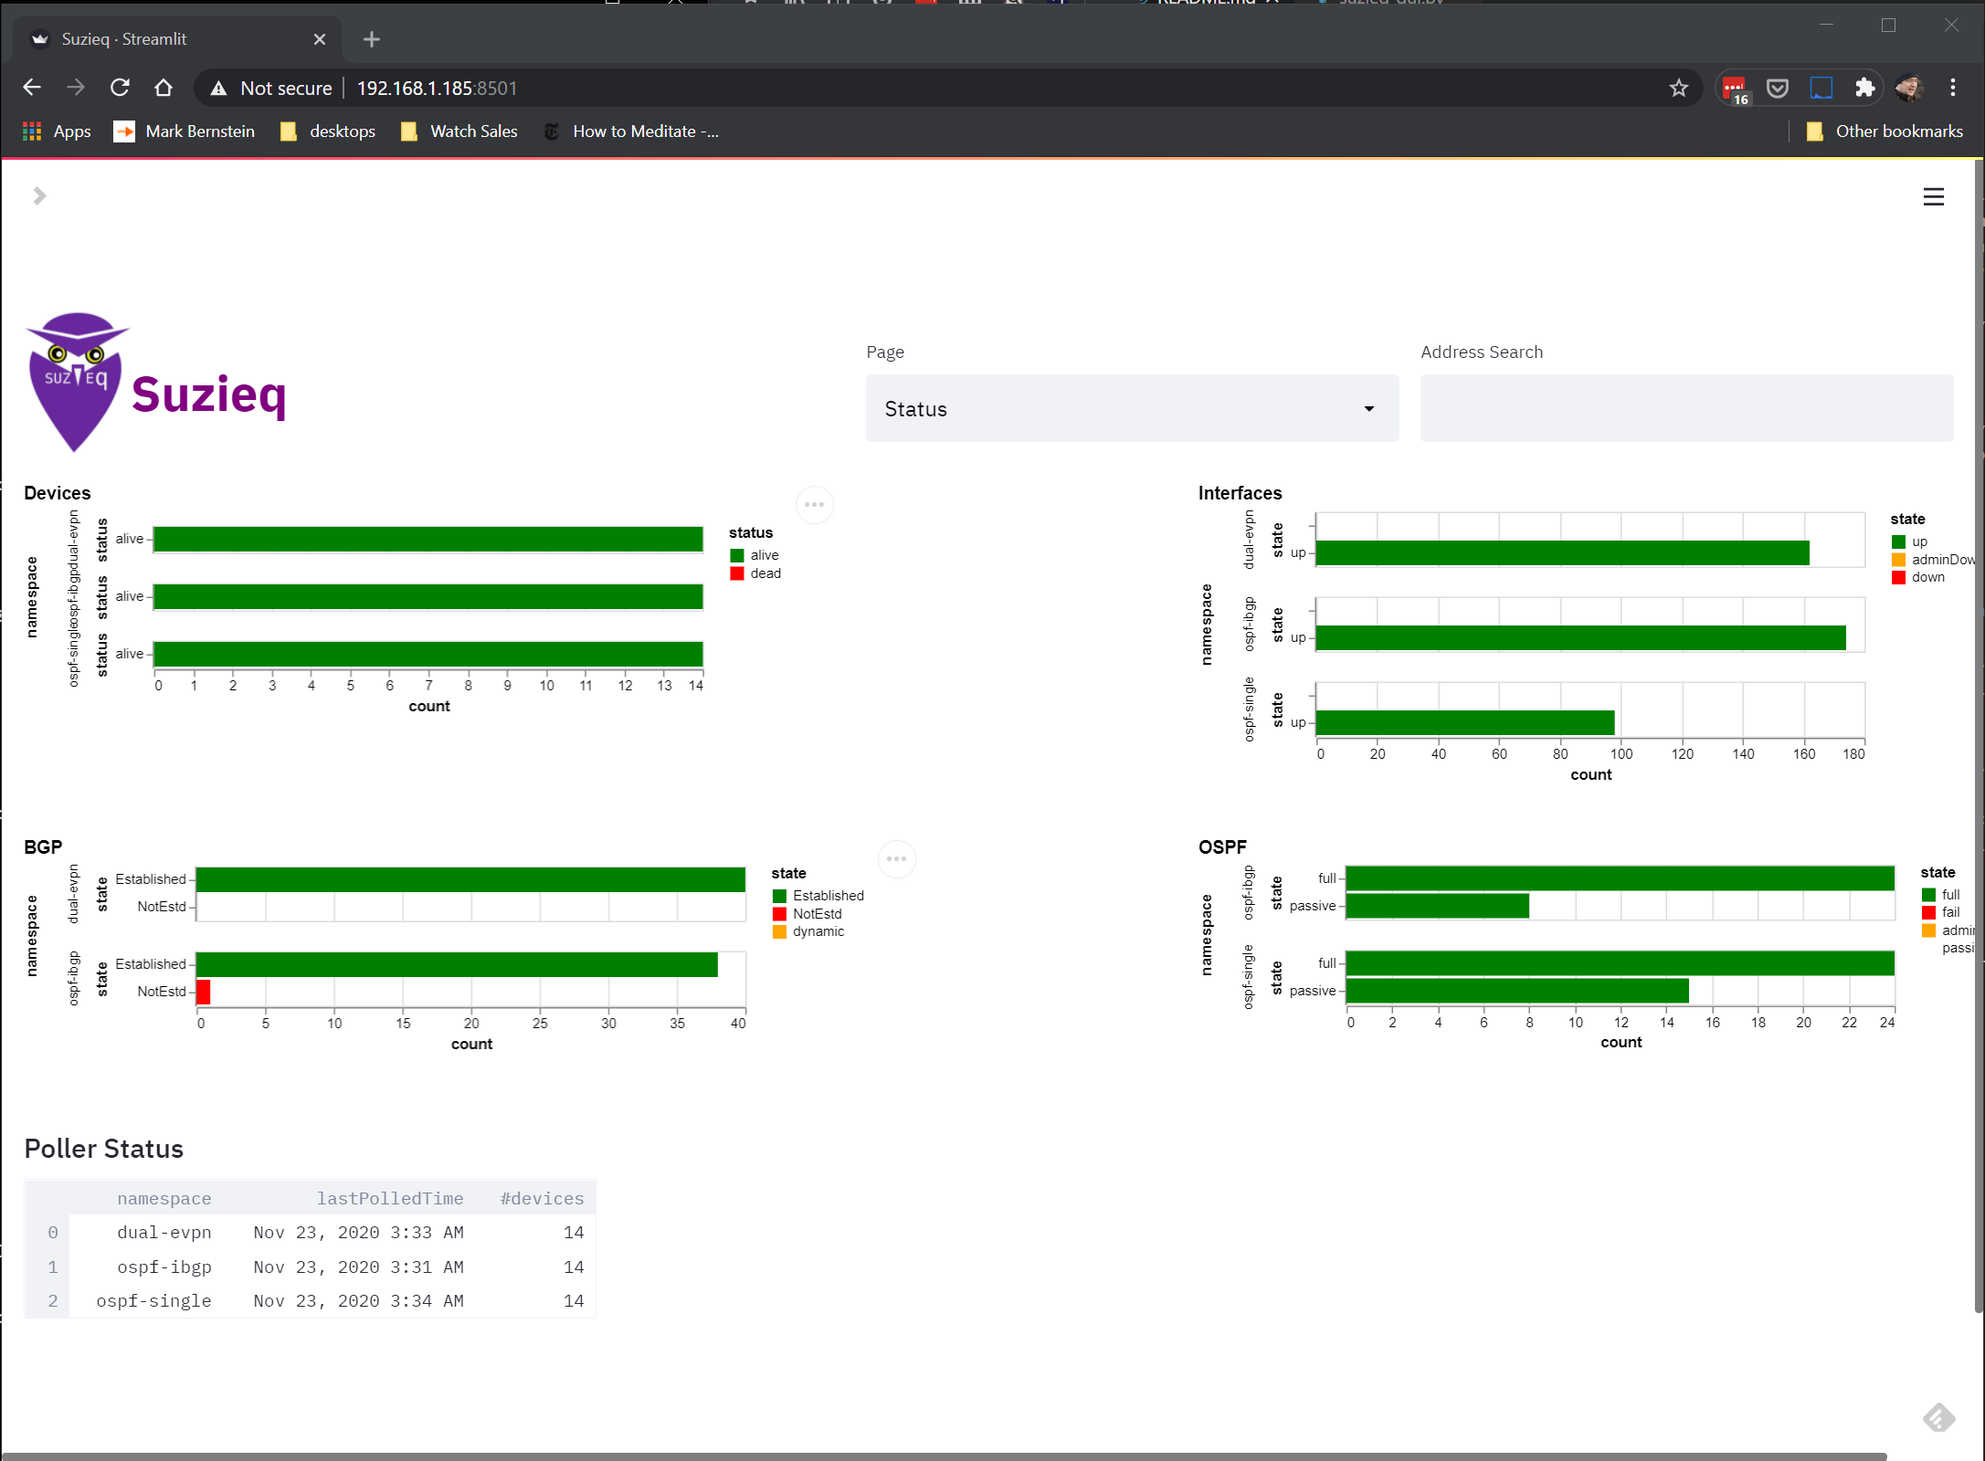
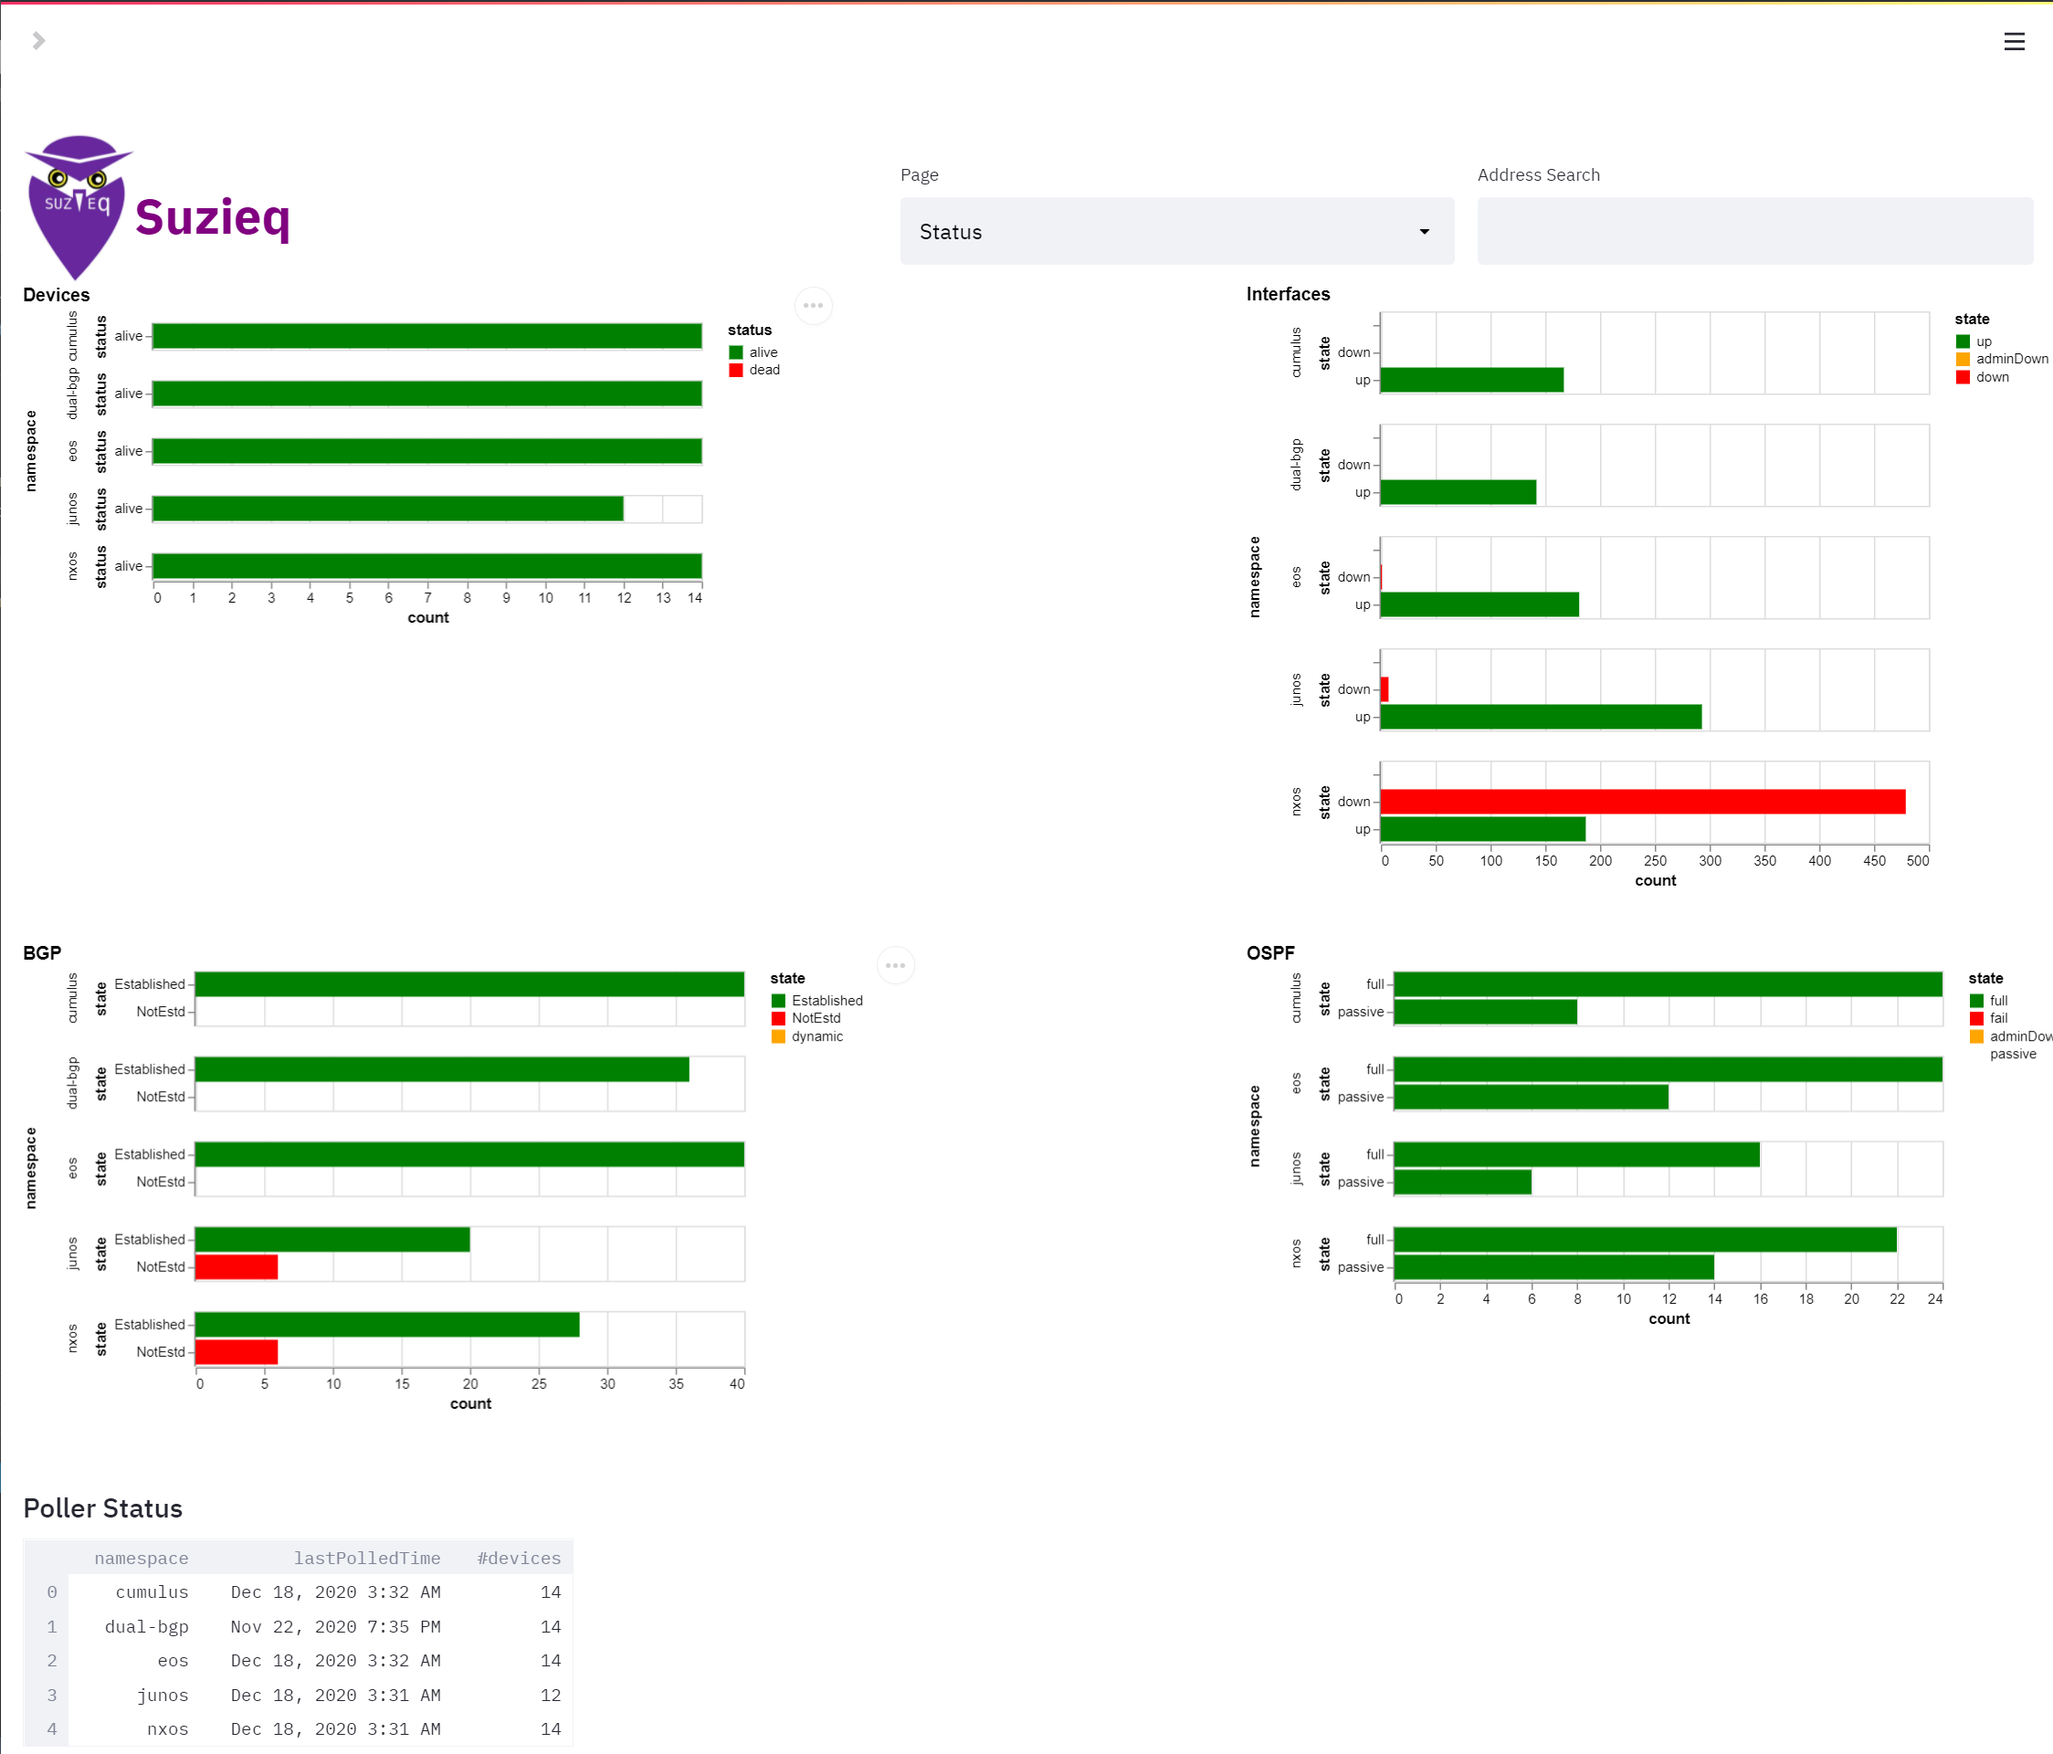
moved integration tests badge to github actions and updated the pictures in the README to the latest

Changed region(s): [[0.0, 0.0, 1.0, 0.9062], [0.0, 0.5312, 0.9867, 1.0], [0.5858, 0.625, 0.6167, 0.6562]]

diff --git a/README.md b/README.md
@@ -1,5 +1,7 @@
 [![Build Status](https://travis-ci.com/netenglabs/suzieq.svg?branch=master)](https://travis-ci.com/netenglabs/suzieq)
 
+![integration-tests](https://github.com/netenglabs/suzieq/workflows/integration-tests/badge.svg)
+
 # Suzieq -- Network Understanding
 
 Would you like to be able to easily answer trivial questions such as how many unique prefixes are there in your routing table, or how many MAC addresses are there in the MAC tables across the network? How about more difficult questions, such as what changes did your routing table see between 10 pm and midnight last night, or which of your nodes have been up the longest, or which BGP sessions have had the most routing updates? How about being able to answer if your OSPF (or BGP) sessions are working correctly, or is all well with your EVPN? How about a quick way to determine the amount of ECMP at every hop between two endpoints? Do you wish you could easily validate the configuration you deployed across your network?
